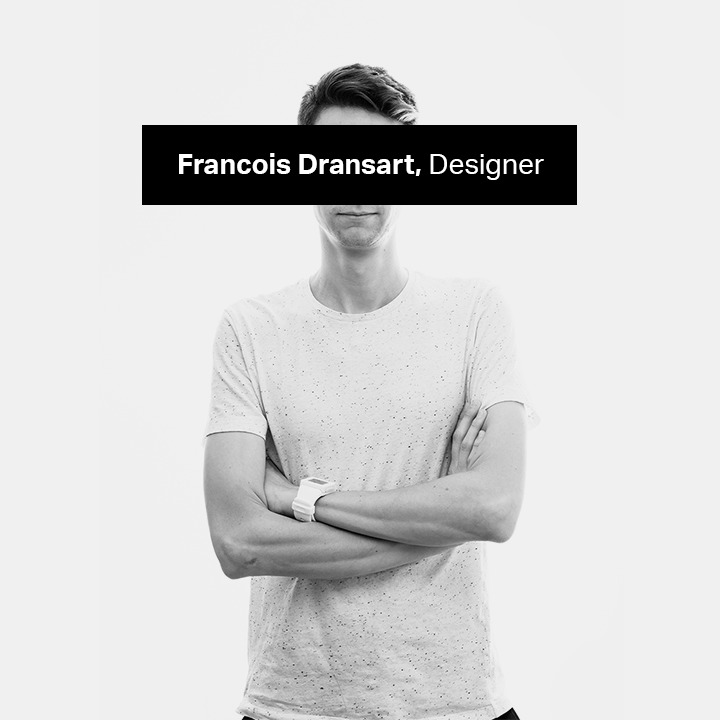
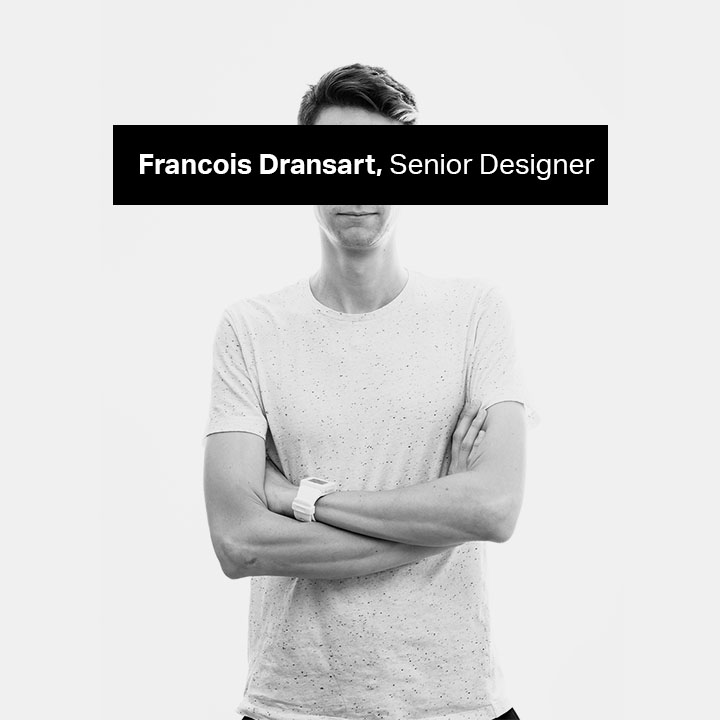
updated images

Changed region(s): [[0.1528, 0.1528, 0.8556, 0.3056]]

diff --git a/pub/about/index.html b/pub/about/index.html
@@ -828,7 +828,7 @@ Brett’s favorite pastime is family time with a dash of sports and music to tak
                 <div class="close">&#10005;</div>
                 <div class="copy">
                   <div class="name">Francois Dransart</div>
-                  <div class="position">Lead Designer</div>
+                  <div class="position">Senior Designer</div>
                   <div class="summary">While sitting beneath a tree between lectures at France’s Institut Supérieur de Design, Francois was struck on his head by an apple. While rubbing his head, he knew fighting gravity was his true calling and that Astro would be a perfect fit for him, his master’s degree, and his snowboard. If you can pry Francois away from his designing tools you’ll find him hiking, biking or shredding large hills in San Francisco or the nearby Sierras.</div>
                 </div>
               </div>
@@ -844,7 +844,7 @@ Brett’s favorite pastime is family time with a dash of sports and music to tak
                 <div class="close">&#10005;</div>
                 <div class="copy">
                   <div class="name">Oliver Henderson</div>
-                  <div class="position">Lead Designer</div>
+                  <div class="position">Senior Designer</div>
                   <div class="summary">Born and raised in sunny Portland OR, Oliver Henderson comes to us from RISD, where he earned his BFA in Industrial Design. After receiving his degree, Oliver high tailed it back west to Santa Cruz, where the climate suited his clothes and the people matched his vibe, and the start of a successful design career. When you can’t find Oliver in the studio, he is most likely in a shop making furniture. Still looking for him? You’re a stalker, but he’s probably on a bike, hanging from a rock or knee deep in a river fly-fishing.</div>
                 </div>
               </div>
